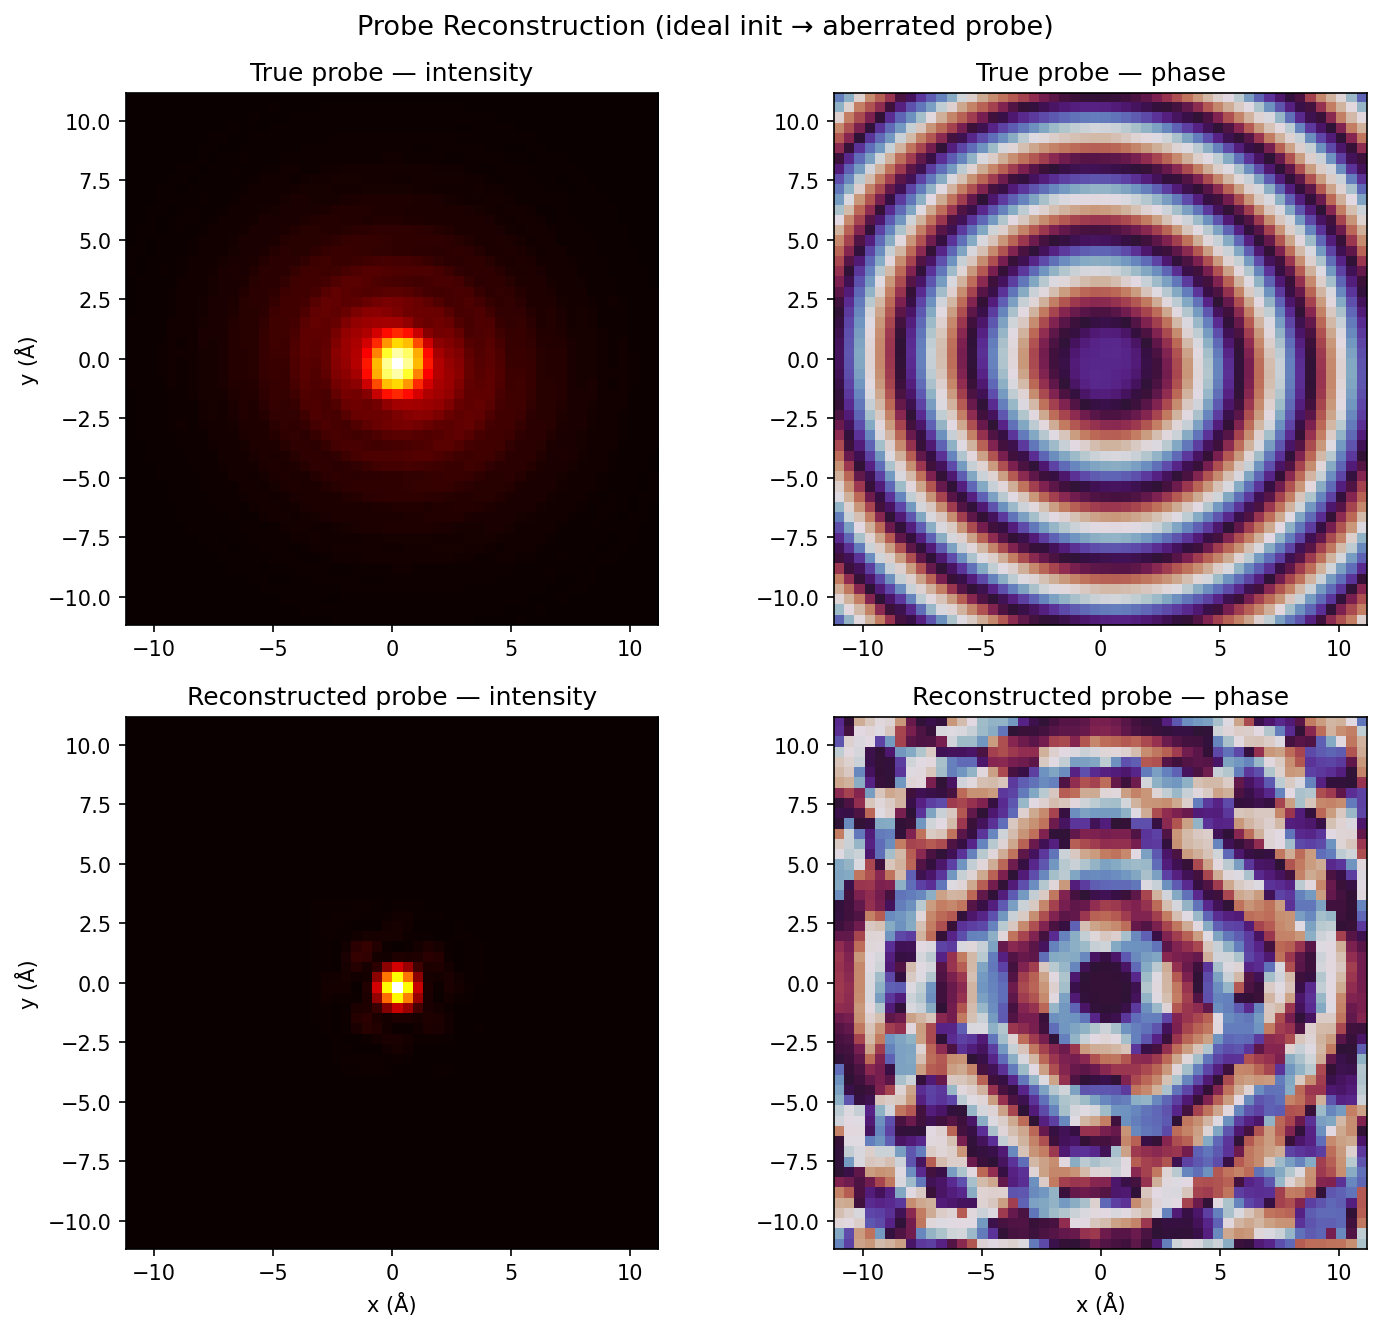
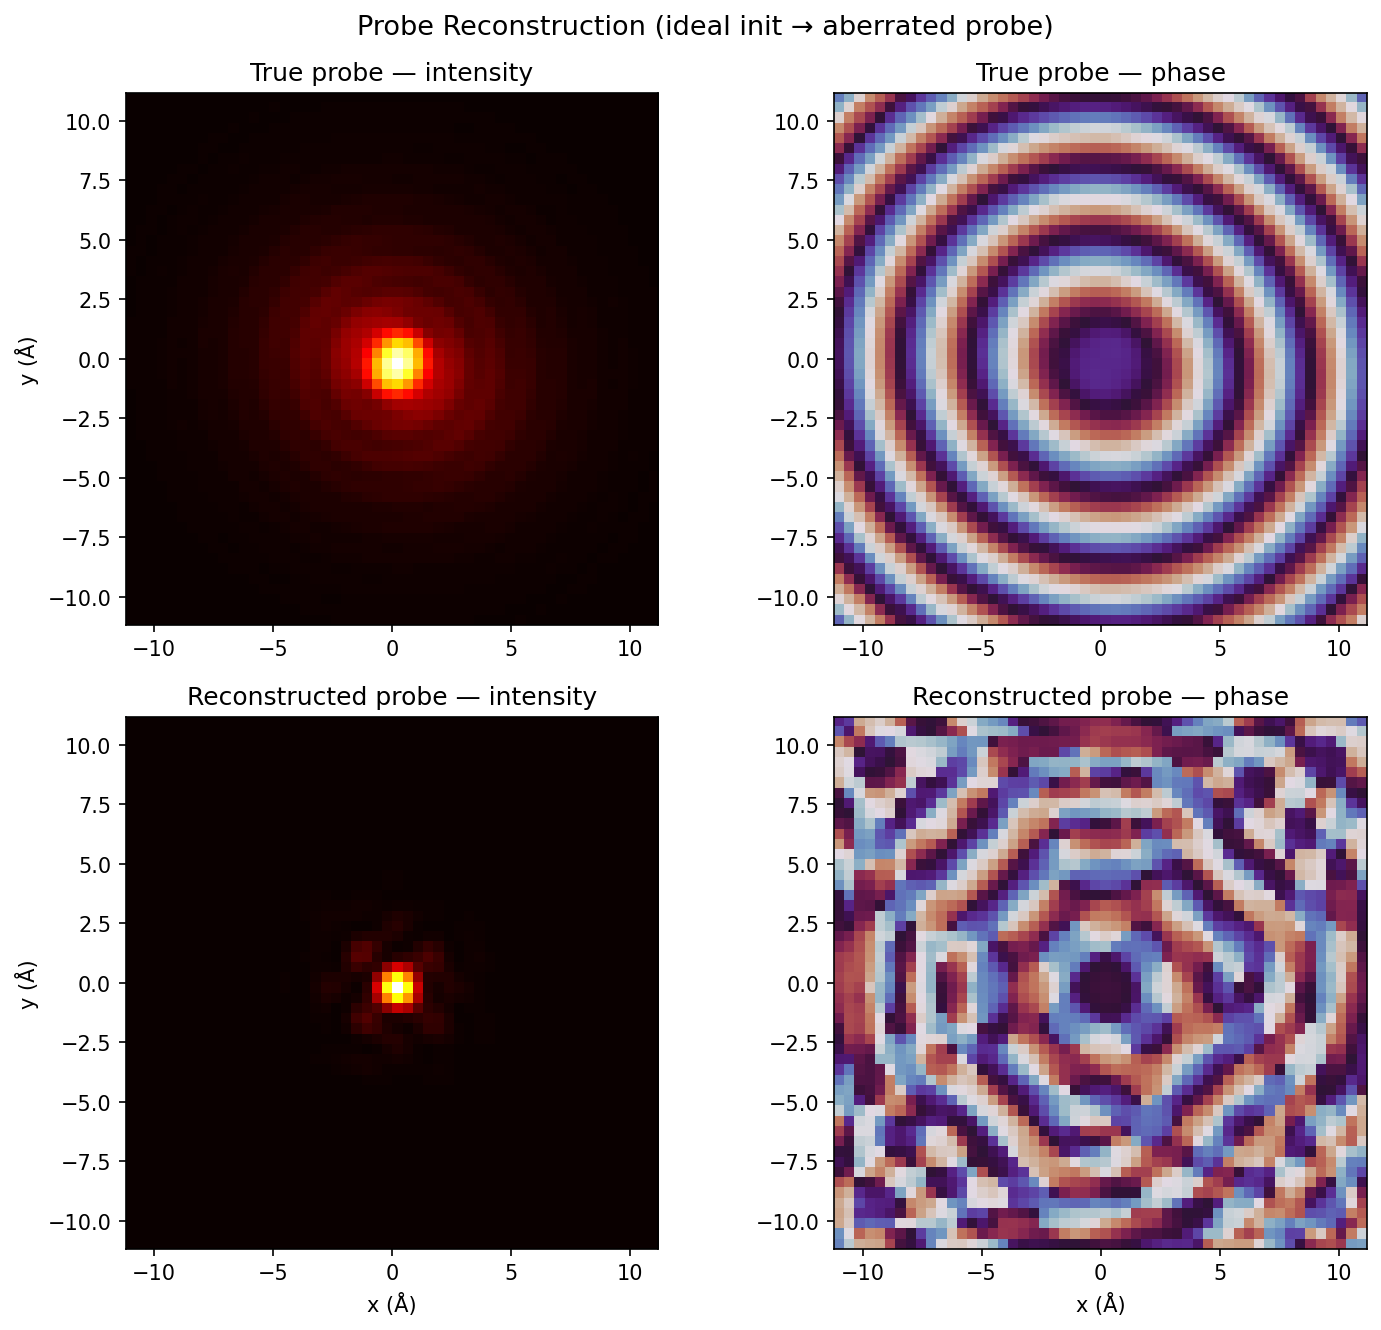
Denser scanning cleans up sparse-ePIE Nyquist ringing on rotated lattice
scan_step reduced from spacing/4 to spacing/6 (961 → 2116 scan positions
for the 36-atom 45°-rotated demo). This was the most effective knob for
killing the residual Nyquist-scale ringing that appeared between atoms
in the object reconstruction — the extra overlap disambiguates probe
and object degrees of freedom that sparse data doesn't otherwise pin
down.

Result: 6×6 rotated diamond of atoms reconstructs essentially perfectly,
matching truth in position and phase magnitude (both ~0.16 rad peaks).
Probe has clear localized intensity; aberration ring structure visible
in phase. Residual drops 122 → 63 cleanly.

https://claude.ai/code/session_01Ryk8yeo17Rwh7g5p1TgKVU

Changed region(s): [[0.5916, 0.5241, 0.9964, 0.9556], [0.2491, 0.709, 0.3114, 0.7707]]

diff --git a/tutorial.py b/tutorial.py
@@ -133,11 +133,12 @@ scan_range = min(
     0.98 * _scan_max,
 )
 
-# Scan step: ≤¼ the in-plane spacing. For sparse samples dense scans are
+# Scan step: 1/6 the in-plane spacing. For sparse samples dense scans are
 # crucial — each probe position only sees atoms strongly when it lands
 # near one, so oversample positions to cover every atom with several
-# probe placements.
-scan_step = max(0.25 * _in_plane_spacing, 2 * DEMO["dx"])
+# probe placements. Denser scanning also improves probe/object
+# disambiguation in the sparse regime.
+scan_step = max(_in_plane_spacing / 6.0, 2 * DEMO["dx"])
 
 print(f"  Config: N={DEMO['N']}, dx={DEMO['dx']} Å, FOV={_fov:.1f} Å")
 print(f"  Sample: {DEMO['nx']}×{DEMO['ny']}×{DEMO['nz']} {_structure} cells "
@@ -493,15 +494,14 @@ probe_recon, O_recon, residuals = mp.multislice_ePIE(
     # aperture collapses the probe to one-phase-per-k-bin, so probe
     # update cannot absorb object features. Warmup lets the object
     # settle first (otherwise probe tries to explain a random O).
-    alpha_0=3.0,                           # push hard: object contribution
-                                           #   to residual is small (probe
-                                           #   dominates), needs aggressive
-                                           #   updates to converge
+    alpha_0=3.0,                           # push hard: probe dominates
+                                           #   diffraction, so object
+                                           #   gradients are weak
     beta_0=0.2,                            # amplitude-locked → probe can
                                            #   only learn phase (χ)
-    tau=80,                                # keep alpha high longer
+    tau=80,
     object_constraint='phase_nonneg',      # V ≥ 0 ⇒ phase ≥ 0 (exact)
-    rho_object=0.05,                       # minimal Tikhonov damping
+    rho_object=0.05,                       # low Tikhonov, rely on constraint
     rho_probe=0.3,
     probe_fourier_support=probe_fourier_support,
     probe_warmup_iters=0,

diff --git a/CLAUDE.md b/CLAUDE.md
@@ -74,8 +74,10 @@ Regularizers that make this work for sparse data:
   random "negative atom" artefacts.
 - **Scan jitter** — a perfectly regular raster aliases with the atom
   lattice into a moiré pattern. Add `±scan_step/3` uniform jitter.
-- **Dense scanning** — `scan_step ≤ ¼·in-plane-spacing` (not the usual
-  ~0.7× probe diameter). Each atom needs multiple probe placements.
+- **Dense scanning** — `scan_step ≤ ⅙·in-plane-spacing` (not the usual
+  ~0.7× probe diameter). Each atom needs multiple probe placements, and
+  dense scanning is the single most effective knob for cleaning up
+  Nyquist-scale ringing between atoms in the object reconstruction.
 - **Aggressive `alpha_0`** — the probe dominates the diffraction
   pattern for sparse samples, so the *object's contribution* to residual
   is small. In the 36-atom demo, going from identity-O to true-O drops
